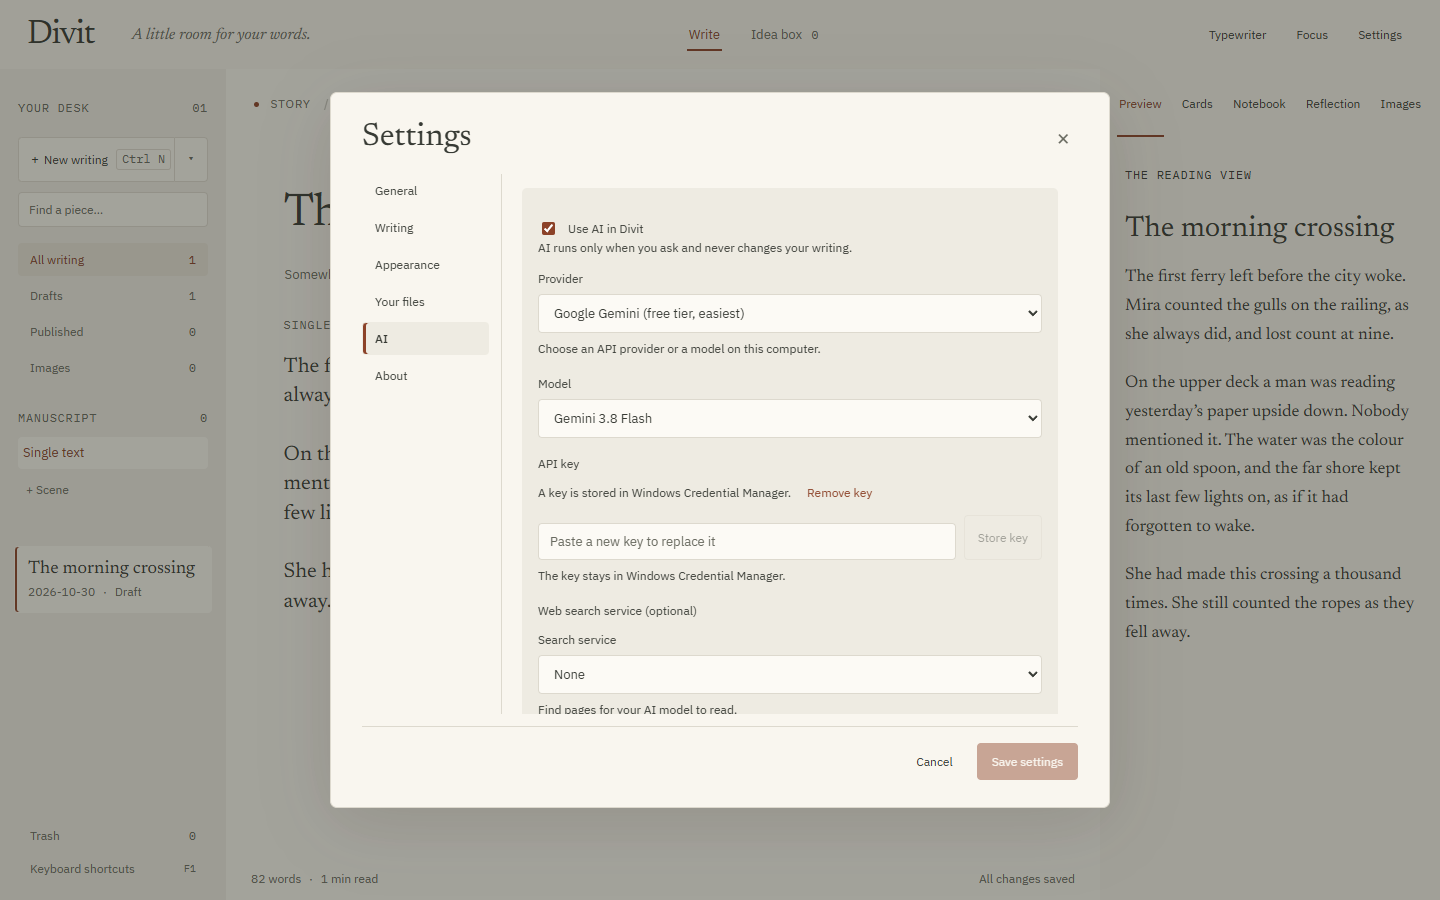
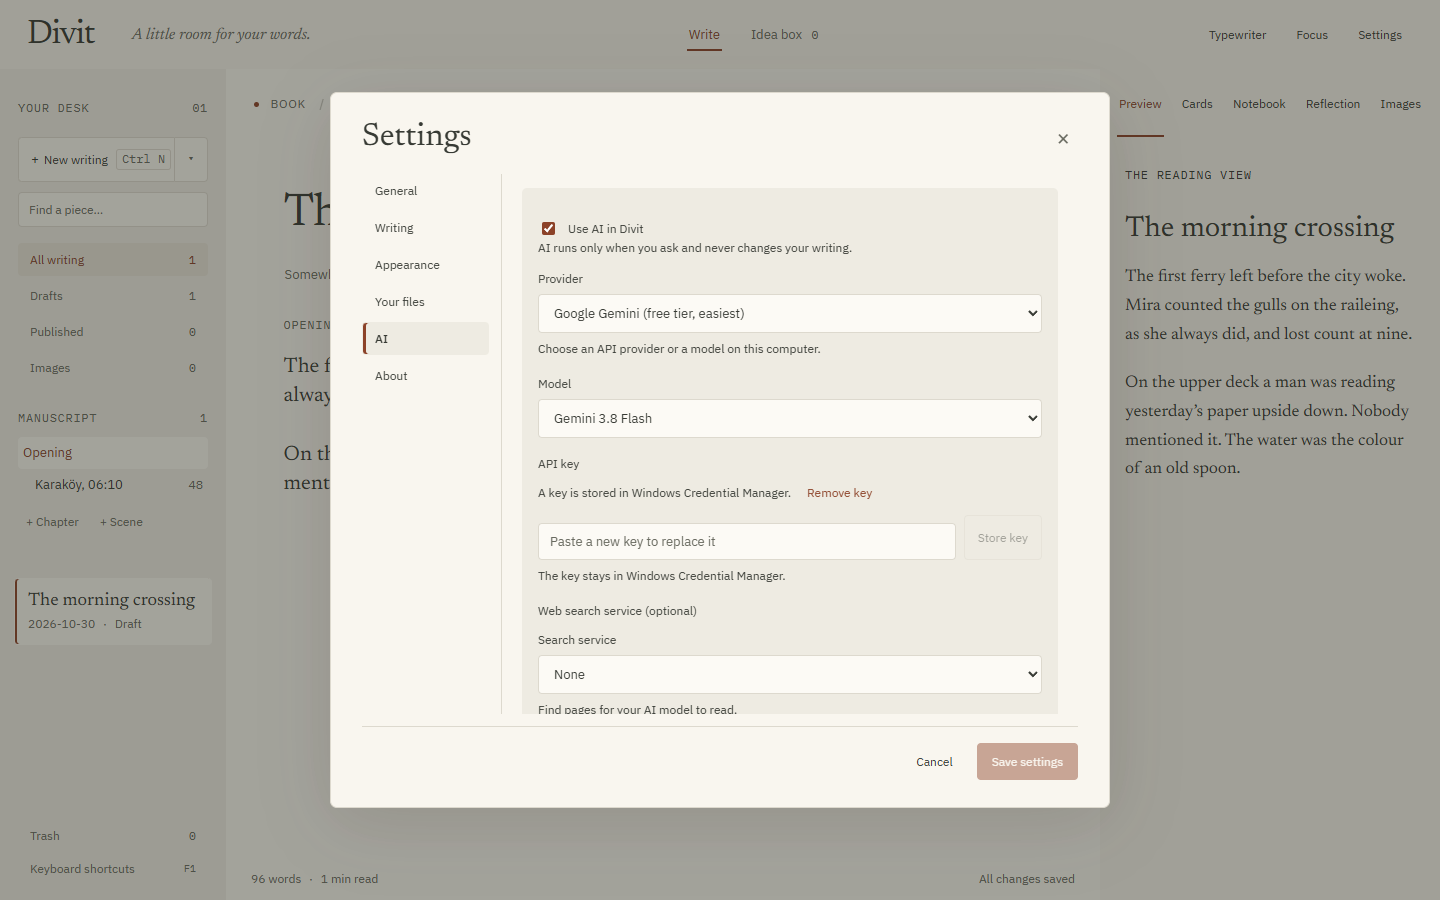
docs: README shows the full desk first, screenshots from the tidied UI
Claude-Session: https://claude.ai/code/session_01JrujSpkA4dTPEVw7DNvzV4

diff --git a/README.md b/README.md
@@ -4,7 +4,7 @@
 
 A quiet Windows app for writing blog posts, stories and books. Your writing stays on your computer as plain Markdown files. Research and AI are there when you ask for them and silent when you don't. The interface is in English or Turkish, and you can write in any language.
 
-![Divit in Write mode: only the text on warm paper](docs/screenshots/divit-write.png)
+![Divit: your writing library, the text and a reading preview side by side](docs/screenshots/divit-desk.png)
 
 > **Beta.** This is 0.1.0-beta.2. Keep a backup of anything important and [tell us what breaks](https://github.com/illfollowthesun/Divit/issues/new/choose).
 
@@ -34,7 +34,7 @@ Divit runs on Windows 10 and 11 and uses Microsoft Edge WebView2, which Windows 
 | **Review** | Ctrl 2 | Spelling underlines (English UK and Turkish), checked on your computer, with suggestions you accept one by one. |
 | **Normal** | Ctrl 3 | Your library, outline, cards, notes, preview and research, all around the page. |
 
-![Review mode with two spelling suggestions](docs/screenshots/divit-review.png)
+![Review mode with a spelling suggestion](docs/screenshots/divit-review.png)
 
 Stories can be one text or scenes. Books have chapters with scenes. Drag to reorder, keep snapshots before a rewrite, and compare versions side by side. You can set an optional daily word goal in Settings; Divit then shows today's words and how many days in a row you have written. It is off by default and never appears in Write mode.
 
